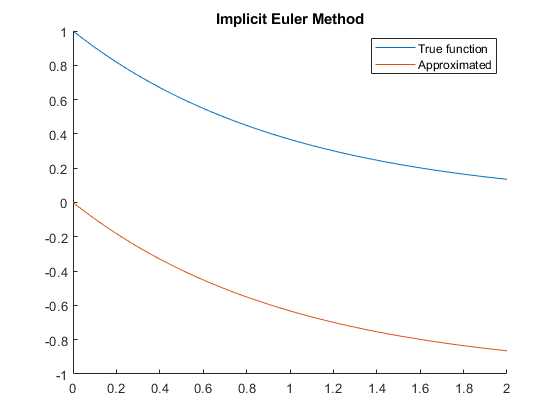
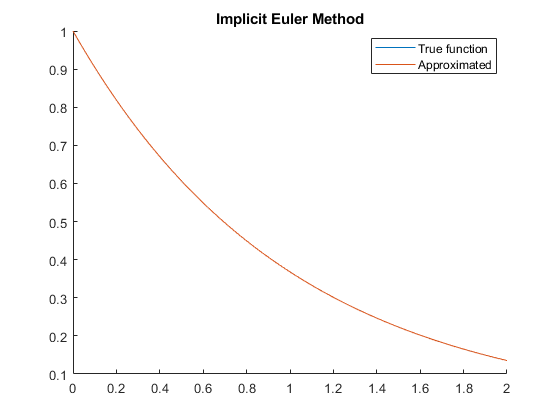
Misc: Little fix HW8 Q6.b

diff --git a/HW8/HW8_Q6_b.m b/HW8/HW8_Q6_b.m
@@ -7,7 +7,7 @@ dydt = @(t, y) - 100000 * y + 99999 * exp(-t); % dy/dt
 tspan = [0 2];
 h = 0.00001; % Steps, bigger step yields bigger error
 
-y0 = 0;
+y0 = y(tspan(1));
 [t_aprox, y_aprox] = implicit_EulerODE(dydt, tspan, y0, h);
 
 hold on;
